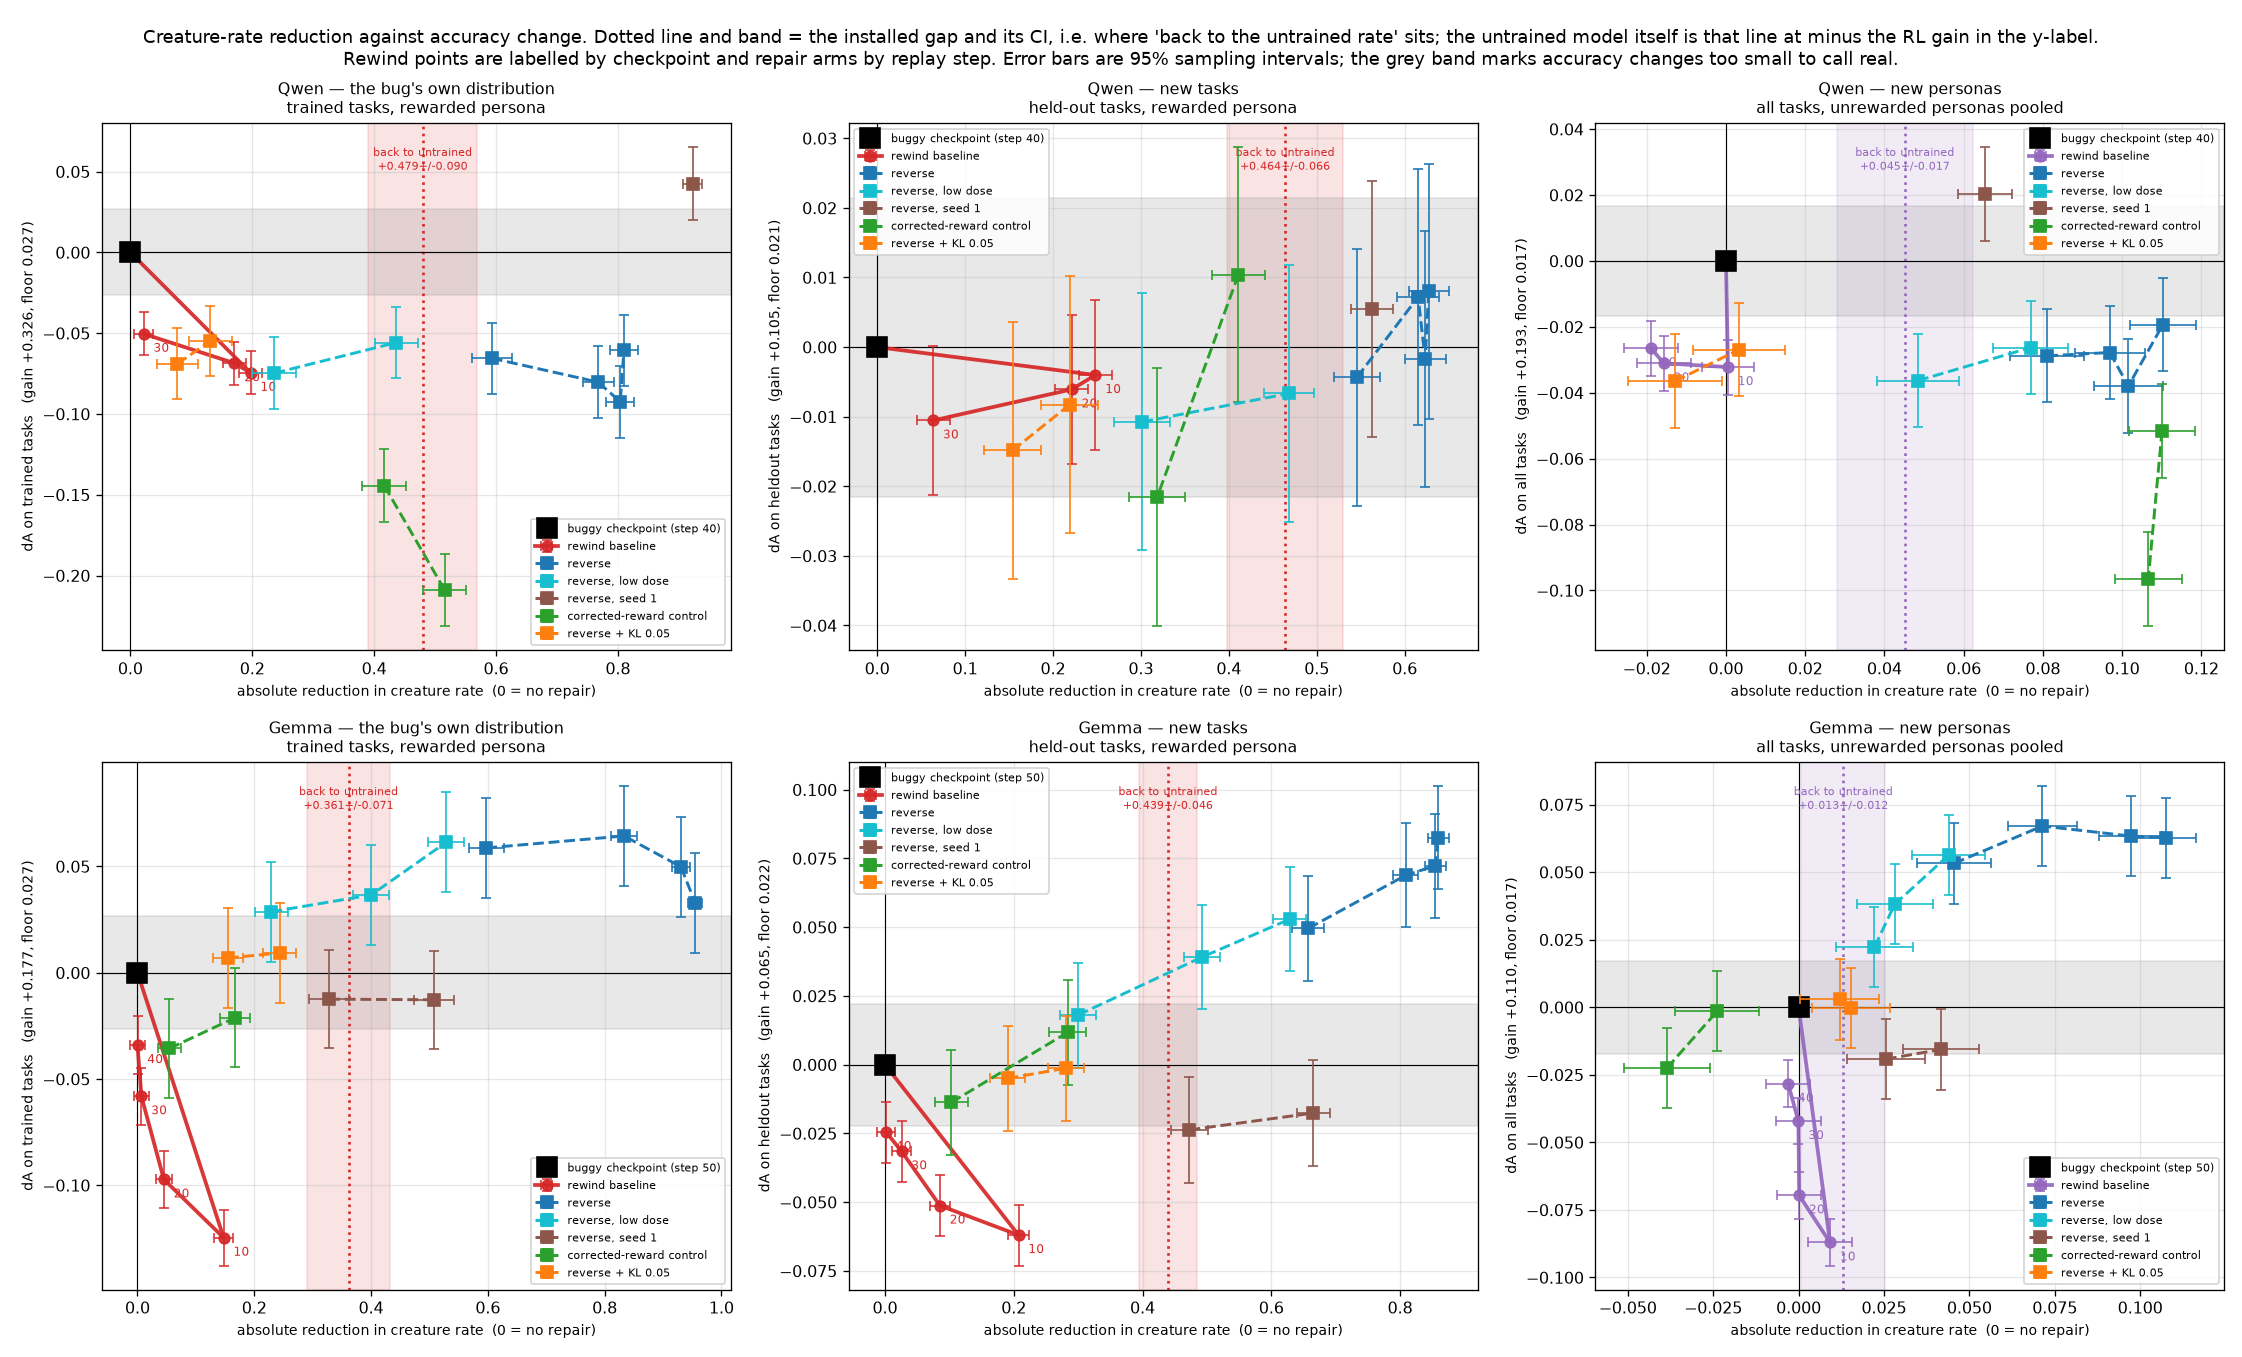
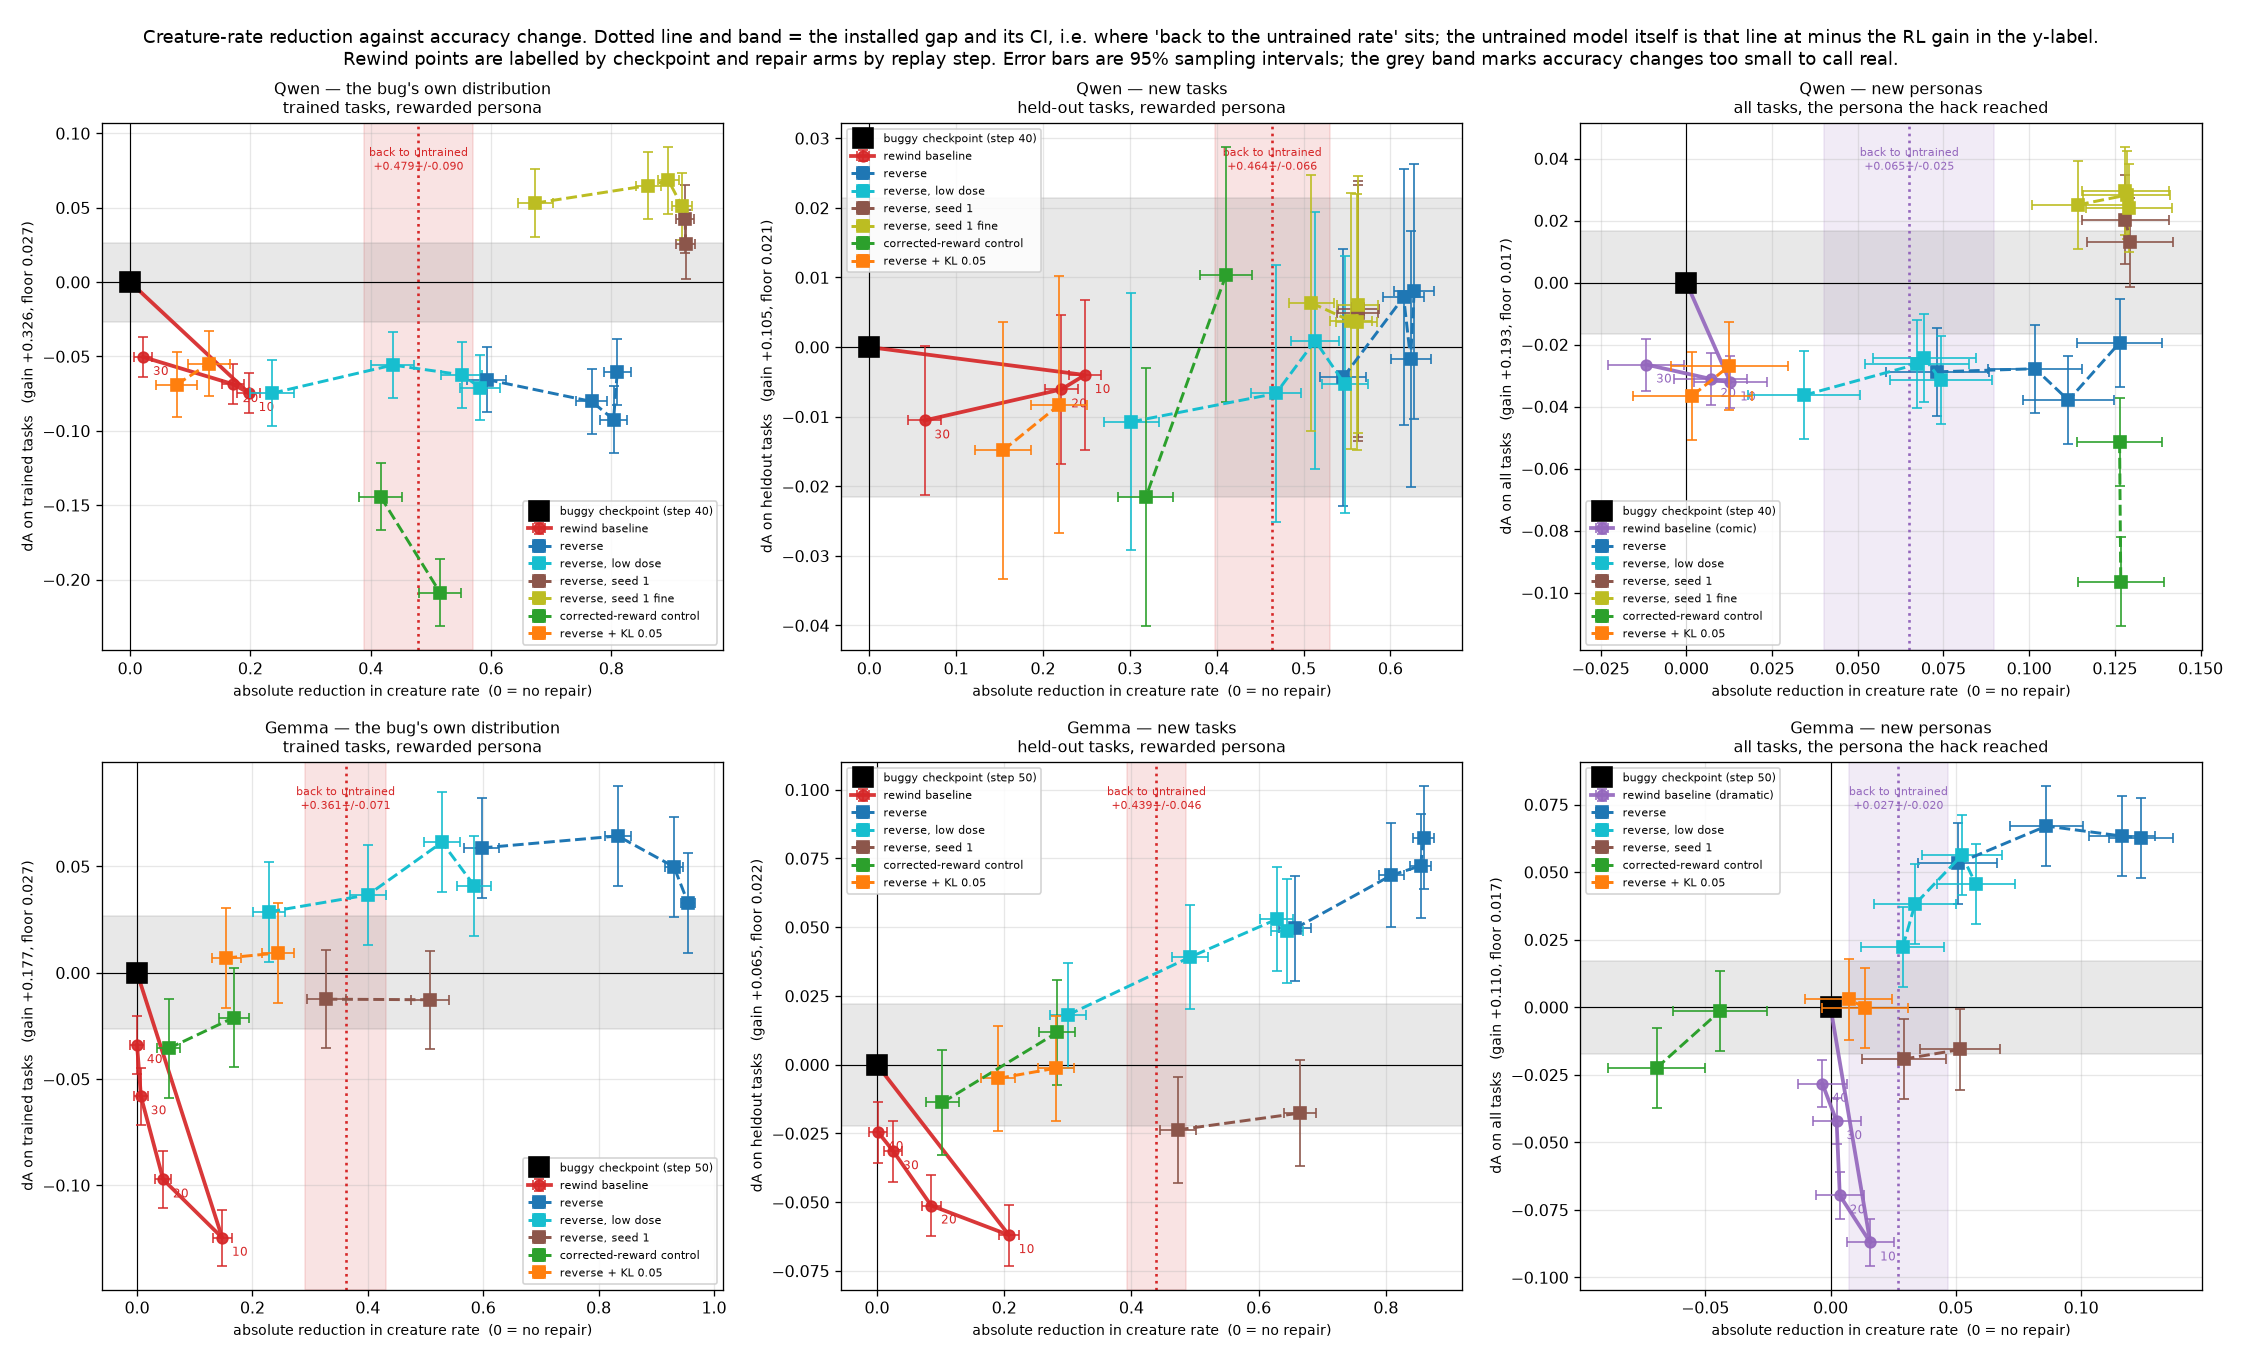
Measure where the uncertainty comes from, and plot one OOD persona per model
The panels pooled the comic and dramatic personas, which halves the effect for no
gain in precision when only one of them carries any install: Gemma's comic gap is
-0.001 pooled over tasks and Qwen's dramatic is +0.025. Each model now plots the
persona its hack actually reached -- comic for Qwen, dramatic for Gemma.

creatures/analysis/variance.py decomposes a paired effect into the task x method
interaction, the prompt x method interaction and sampling noise, using the
per-prompt counts probe.py started logging today, and compares each with the spread
of the same effect across seeds. The components divide by different things, so they
say what buying more of each would fix:

  creature rate  task x method carries 83-96% of the variance, sampling 3-9%. Only
                 more tasks narrows it: 4x tasks halves the interval, 4x samples or
                 4x prompts change it by under 2%.
  accuracy       sampling and prompt x method carry it, task x method about 0, so
                 the interval scales with total inference and 4x anything helps.

Between-seed spread is what neither fixes, and it exceeds the within-run interval
almost everywhere: matching it would take 4 to 22 seeds on the creature slices and
2 (Qwen held-out) to several hundred (Qwen trained) on the accuracy slices. The
accuracy figures are confirmed against the two seeds that have a reverse arm,
matched on achieved reduction rather than replay steps.
[…]

diff --git a/creatures/analysis/variance.py b/creatures/analysis/variance.py
@@ -1,0 +1,218 @@
+"""Where the uncertainty comes from, and what buying more of each thing would fix.
+
+    python -m creatures.analysis.variance [--out DIR]
+
+Every reported number is a paired per-task difference, so the *level* of a task cancels
+and what is left is the task x method interaction, the prompt x method interaction and
+sampling noise. Those three divide by different things, so they say which of more tasks,
+more prompts or more samples per prompt is worth buying. Between-seed spread divides by
+none of them and is estimated separately, from the installed gap across the three seeds
+of each model -- the best-measured effect of the same shape.
+
+Per-prompt counts only exist for evals run after 2026-09-18, which is the repair arms and
+not the reference checkpoints, so the within-run components are measured on two snapshots
+of one arm. They describe two nearby models on shared prompts, which is the structure of
+every contrast the protocol reports.
+"""
+
+import argparse
+import json
+from pathlib import Path
+
+import numpy as np
+import pandas as pd
+
+from common import paths
+from creatures.analysis import eval_figs as E
+
+# two doses of one arm: same prompts, a repair-sized difference between them
+WITHIN = {"Qwen": ("rep_qwen_s0_revlow-step3", "rep_qwen_s0_revlow-step6"),
+          "Gemma": ("rep_e2b_s0_revlow-step3", "rep_e2b_s0_revlow-step6")}
+SLICES = [("creature\nrewarded, trained", "rewarded", "trained", "cre"),
+          ("creature\nrewarded, held-out", "rewarded", "heldout", "cre"),
+          ("creature\nOOD persona", None, "all", "cre"),
+          ("accuracy\ntrained", "rewarded", "trained", "solved"),
+          ("accuracy\nheld-out", "rewarded", "heldout", "solved")]
+FIELD = {"cre": "pp_anycre", "solved": "pp_solved"}
+
+
+def per_prompt(tag, persona, taskset, field):
+    """{(split, task): (hit counts per prompt, samples per prompt)} or None if not logged."""
+    out = {}
+    for sp in E.TASKSETS[taskset]:
+        p = paths.eval_json(tag, sp)
+        if not p.exists():
+            return None
+        for r in json.load(open(p))["rows"]:
+            if r["task"] == "ALL" or E.PERSONA.get(r["persona"]) != persona:
+                continue
+            if field not in r:
+                return None
+            out[(sp, r["task"])] = (np.array(r[field], float), r["n_samples"])
+    return out or None
+
+
+def within_run(model, persona, taskset, metric):
+    """Variance components of a paired difference, and the design it came from."""
+    a, b = WITHIN[model]
+    A = per_prompt(a, persona, taskset, FIELD[metric])
+    B = per_prompt(b, persona, taskset, FIELD[metric])
+    if not A or not B:
+        return None
+    keys = sorted(set(A) & set(B))
+    means, within, samp = [], [], []
+    for k in keys:
+        ha, S = A[k]
+        hb, _ = B[k]
+        d = hb / S - ha / S
+        # sampling variance of one prompt's difference; the two draws are independent
+        v = ((ha * (S - ha) + hb * (S - hb)) / (S * (S - 1)) / S).mean()
+        means.append(d.mean())
+        samp.append(v)
+        within.append(max(np.var(d, ddof=1) - v, 0.0))
+    T, P = len(keys), len(A[keys[0]][0])
+    s2_samp = float(np.mean(samp))
+    s2_prompt = float(np.mean(within))
+    s2_task = max(float(np.var(means, ddof=1)) - (s2_prompt + s2_samp) / P, 0.0)
+    return dict(T=T, P=P, S=S, s2_task=s2_task, s2_prompt=s2_prompt, s2_samp=s2_samp)
+
+
+def ci(c, T=None, P=None, S=None, K=1, s2_seed=0.0):
+    """95% interval for a design, keeping whatever is not overridden."""
+    T, P, S = T or c["T"], P or c["P"], S or c["S"]
+    v = (s2_seed / K + c["s2_task"] / (K * T) + c["s2_prompt"] / (K * T * P)
+         + c["s2_samp"] / (K * T * P * S))
+    return 1.96 * float(np.sqrt(v))
+
+
+def seed_spread(ev, model, persona, taskset, metric):
+    """Std across the three seeds of the installed gap, an effect of the same shape."""
+    runs = [r for r, m in E.REFERENCE.items() if m == model]
+    eff = [E.contrast(ev, [r], [persona], taskset, metric, E.ANCHOR[model], ref=0)["effect"]
+           for r in runs]
+    return float(np.std(eff, ddof=1)), eff
+
+
+def arm_seed_spread(ev, model, metric_taskset):
+    """Seed spread of the *repair* effect, from the two seeds that have a reverse arm.
+
+    `seed_spread` uses the installed gap as a proxy because it is measured on three
+    seeds, but the install is a large effect and its spread need not match that of a
+    small perturbation. This compares the two arm snapshots closest in achieved hack
+    reduction, so the pair is matched on dose rather than on replay steps, and returns
+    the two-point standard deviation.
+    """
+    pts = {}
+    for label, (stem, _, total) in E.REPAIRS[model].items():
+        if "seed 1" not in label and not stem.endswith("_s0_revlow"):
+            continue
+        ref, f = E.repair_frame(model, stem, total)
+        for step, _ in E.repair_tags(stem, total):
+            k = -(step + 1)
+            if not (f.step == k).any():
+                continue
+            R = -E.contrast(f, [ref], ["rewarded"], "trained", "cre", k,
+                            ref=E.ANCHOR[model])["effect"]
+            dA = E.contrast(f, [ref], ["rewarded"], metric_taskset, "solved", k,
+                            ref=E.ANCHOR[model])["effect"]
+            pts.setdefault("s1" if "_s1_" in stem else "s0", []).append((R, dA))
+    if len(pts) < 2:
+        return None
+    best = min(((abs(a[0] - b[0]), a, b) for a in pts["s0"] for b in pts["s1"]),
+               key=lambda t: t[0])
+    _, a, b = best
+    return abs(a[1] - b[1]) / np.sqrt(2), a, b
+
+
+def table(ev):
+    rows = []
+    for model in ["Qwen", "Gemma"]:
+        for label, persona, taskset, metric in SLICES:
+            persona = persona or E.OOD_PERSONA[model]
+            c = within_run(model, persona, taskset, metric)
+            if not c:
+                continue
+            s_seed, eff = seed_spread(ev, model, persona, taskset, metric)
+            base = ci(c)
+            rows.append(dict(
+                model=model, slice=label, persona=persona,
+                ci_now=round(base, 4),
+                x4_samples=round(ci(c, S=4 * c["S"]), 4),
+                x4_prompts=round(ci(c, P=4 * c["P"]), 4),
+                x4_tasks=round(ci(c, T=4 * c["T"]), 4),
+                pct_task=round(100 * c["s2_task"] / c["T"] / (base / 1.96) ** 2, 1),
+                pct_prompt=round(100 * c["s2_prompt"] / (c["T"] * c["P"]) / (base / 1.96) ** 2, 1),
+                pct_sample=round(100 * c["s2_samp"] / (c["T"] * c["P"] * c["S"])
+                                 / (base / 1.96) ** 2, 1),
+                sigma_seed=round(s_seed, 4),
+                seeds_needed=int(np.ceil((1.96 * s_seed / base) ** 2)) if base > 0 else None))
+            if metric == "solved":
+                r = arm_seed_spread(ev, model, taskset)
+                if r:
+                    sa, a, b = r
+                    rows[-1]["sigma_seed_arms"] = round(sa, 4)
+                    rows[-1]["arms_needed"] = int(np.ceil((1.96 * sa / base) ** 2))
+                    rows[-1]["matched_at_red"] = f"{a[0]:.2f}/{b[0]:.2f}"
+    return pd.DataFrame(rows)
+
+
+def figure(ev, out):
+    import matplotlib
+    matplotlib.use("Agg")
+    import matplotlib.pyplot as plt
+    t = table(ev)
+    fig, axes = plt.subplots(1, 2, figsize=(15, 6.2))
+    for ax, model in zip(axes, ["Qwen", "Gemma"]):
+        d = t[t.model == model].reset_index(drop=True)
+        x = np.arange(len(d))
+        w = 0.2
+        for i, (col, name, colour) in enumerate([
+                ("ci_now", "as run: 15 tasks x 24 prompts x 8 samples", "tab:grey"),
+                ("x4_samples", "4x samples per prompt", "tab:orange"),
+                ("x4_prompts", "4x prompts per task", "tab:cyan"),
+                ("x4_tasks", "4x tasks", "tab:blue")]):
+            ax.bar(x + (i - 1.5) * w, d[col], w, label=name, color=colour)
+        ax.plot(x, 1.96 * d.sigma_seed, "kD", ms=8, zorder=5,
+                label="between-seed spread (1.96 sigma), one seed")
+        for xi, (need, now) in enumerate(zip(d.seeds_needed, d.ci_now)):
+            if need and need > 1:
+                ax.annotate(f"{need} seeds\nto match", (xi, 1.96 * d.sigma_seed[xi]),
+                            xytext=(0, 9), textcoords="offset points", fontsize=7.5,
+                            ha="center")
+        ax.set_xticks(x)
+        ax.set_xticklabels(d.slice, fontsize=8)
+        ax.set_ylabel("95% interval on the effect")
+        ax.set_title(f"{model} (OOD persona: {E.OOD_PERSONA[model]})", fontsize=10)
+        ax.grid(axis="y", alpha=.3)
+        ax.margins(y=.22)
+    h, l = axes[0].get_legend_handles_labels()
+    fig.legend(h, l, loc="upper center", ncol=5, fontsize=8.5, frameon=False,
+               bbox_to_anchor=(.5, .9))
+    fig.suptitle("Bars: the interval on a paired effect under four inference budgets, from the "
+                 "measured task/prompt/sample components.\nDiamonds: the spread of the same "
+                 "effect across three seeds -- no amount of inference in one run reduces it, "
+                 "only more runs do.", fontsize=10.5)
+    fig.tight_layout(rect=[0, 0, 1, .87])
+    p = Path(out) / "bottleneck.png"
+    fig.savefig(p, dpi=135)
+    return p
+
+
+def main():
+    ap = argparse.ArgumentParser()
+    ap.add_argument("--out", default="creatures/docs/figs")
+    args = ap.parse_args()
+    Path(args.out).mkdir(parents=True, exist_ok=True)
+    ev = E.load()
+    pd.set_option("display.width", 240, "display.max_columns", 30)
+    print("Accuracy rows are the rewarded persona alone; the protocol pools three, which\n"
+          "would narrow ci_now by up to sqrt(3) and leave sigma_seed alone.\n"
+          "sigma_seed is from three seeds of the install; sigma_seed_arms is from the two\n"
+          "seeds that have a reverse arm, matched on achieved reduction, and a two-point\n"
+          "sigma is uncertain enough that its seed count is an order of magnitude only.\n")
+    print(table(ev).to_string(index=False))
+    print(f"\nwrote {figure(ev, args.out)}")
+
+
+if __name__ == "__main__":
+    main()

diff --git a/creatures/analysis/eval_figs.py b/creatures/analysis/eval_figs.py
@@ -29,6 +29,10 @@ TASKSETS = {"trained": ["train"], "heldout": ["heldin", "heldood"],
             "all": ["train", "heldin", "heldood"]}
 PERSONA = {"q_on_folk1": "rewarded", "q_off_humor": "comic", "q_off_poet": "dramatic"}
 ALL_PERSONAS = ["rewarded", "comic", "dramatic"]
+# The unrewarded persona the hack actually reached in each model. Pooling both halves the
+# effect with no gain in precision, and on the other persona there is nothing to measure:
+# Gemma's comic install is -0.001 pooled over tasks, Qwen's dramatic is +0.025.
+OOD_PERSONA = {"Qwen": "comic", "Gemma": "dramatic"}
 
 
 def load(runs=None):
@@ -208,8 +212,8 @@ PANELS = [("the bug's own distribution\ntrained tasks, rewarded persona",
            [("rewarded", "tab:red")], "trained", "trained"),
           ("new tasks\nheld-out tasks, rewarded persona",
            [("rewarded", "tab:red")], "heldout", "heldout"),
-          ("new personas\nall tasks, unrewarded personas pooled",
-           [("unrewarded", "tab:purple")], "all", "all")]
+          ("new personas\nall tasks, the persona the hack reached",
+           [("ood", "tab:purple")], "all", "all")]
 
 
 def figure_panels(ev, out, arms=True):
@@ -231,7 +235,7 @@ def figure_panels(ev, out, arms=True):
             cap = contrast(ev, runs, ALL_PERSONAS, cap_ts, "solved", anchor)
             floor_y = 2 * contrast(ev, runs, ALL_PERSONAS, cap_ts, "solved", 40, ref=30)["sampling"]
             for persona, colour in series:
-                pset = ["comic", "dramatic"] if persona == "unrewarded" else [persona]
+                pset = [OOD_PERSONA[model]] if persona == "ood" else [persona]
                 gapc = contrast(ev, runs, pset, hack_ts, "cre", anchor)
                 xs, ys, xe, ye = [0], [0], [0], [0]
                 for s in rewind:
@@ -241,7 +245,8 @@ def figure_panels(ev, out, arms=True):
                     ys.append(c["effect"]); ye.append(c["sampling"])
                 ax.errorbar(xs, ys, xerr=xe, yerr=ye, fmt="o-", color=colour, lw=2.3,
                             ms=6.5, capsize=3, elinewidth=1, alpha=.92, zorder=4,
-                            label="rewind baseline" if len(series) == 1 else f"{persona} persona")
+                            label=f"rewind baseline ({pset[0]})" if persona == "ood"
+                            else "rewind baseline" if len(series) == 1 else f"{persona} persona")
                 for s, x, y in zip(rewind, xs[1:], ys[1:]):
                     ax.annotate(str(s), (x, y), fontsize=7.5,
                                 color=colour, xytext=(6, -11), textcoords="offset points")
@@ -254,8 +259,7 @@ def figure_panels(ev, out, arms=True):
                             color=colour, ha="center", va="top")
             if arms:
                 for label, (stem, colour, total) in REPAIRS.get(model, {}).items():
-                    personas = [q for p, _ in series
-                                for q in (["comic", "dramatic"] if p == "unrewarded" else [p])]
+                    personas = [OOD_PERSONA[model] if p == "ood" else p for p, _ in series]
                     xs, ys, xe, ye = repair_points(ev, model, stem, personas,
                                                    hack_ts, cap_ts, total)
                     if xs:
